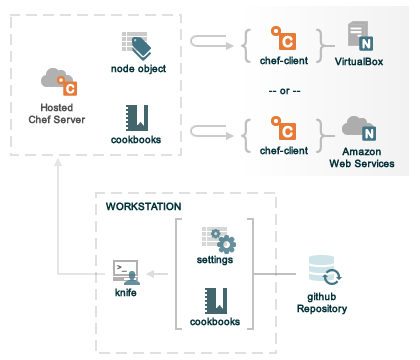
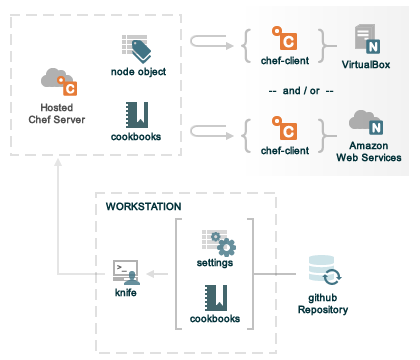
bunches of changes

diff --git a/step_resource/step_resource_registry_key_redirect.rst b/step_resource/step_resource_registry_key_redirect.rst
@@ -1,0 +1,48 @@
+.. This is an included how-to. 
+
+In 64-bit versions of |windows|, ``HKEY_LOCAL_MACHINE\SOFTWARE\Example`` is a re-directed key. In the following examples, because ``HKEY_LOCAL_MACHINE\SOFTWARE\Example`` is a 32-bit key, the output will be "Found 32-bit key" if they are run on a version of |windows| that is 64-bit:
+
+.. code-block:: ruby
+
+   registry_key "HKEY_LOCAL_MACHINE\SOFTWARE\Example" do
+     architecture :i386
+     recursive true
+     action :create
+   end
+
+or: 
+
+.. code-block:: ruby
+
+   registry_key "HKEY_LOCAL_MACHINE\SOFTWARE\Example" do
+     architecture :x86_64
+     recursive true
+     action :delete_key
+   end
+
+or: 
+
+.. code-block:: ruby
+
+   ruby_block "check 32-bit" do
+     block do
+       puts "Found 32-bit key"
+     end
+     only_if { registry_key_exists("HKEY_LOCAL_MACHINE\SOFTWARE\Example", :i386) }
+   end
+
+or: 
+
+.. code-block:: ruby
+
+   ruby_block "check 64-bit" do
+     block do
+       puts "Found 64-bit key"
+     end
+     only_if { registry_key_exists("HKEY_LOCAL_MACHINE\SOFTWARE\Example", :x86_64) }
+   end
+
+
+
+
+

diff --git a/chef_master/source/chef_quick_overview.rst b/chef_master/source/chef_quick_overview.rst
@@ -35,13 +35,11 @@ A Quick Overview of |chef|
 
 .. include:: ../../includes_chef/includes_chef.rst
 
-The following diagram shows the relationships between the various elements of a |chef| organization, including the nodes, the server, and the workstations. These elements work together to provide |chef| the information and instruction that it needs so that it can do its job. As you are reviewing the rest of this doc, use the icons in the tables to refer back to this image.
+The following diagram shows the relationships between the various elements of a very simple |chef| organization, including the |chef hosted| server, a workstations, the |chef| repository, and some simple nodes that exist either in |virtualbox| or |amazon aws|.
 
 .. image:: ../../images/overview_chef_quick.png
 
-.. include:: ../../includes_chef/includes_chef_key_elements.rst
-
-The following sections discuss these elements (and their various components) in more detail.
+The following sections discuss these elements in a bit more detail.
 
 Nodes
 =====================================================

diff --git a/includes_resources/includes_resource_registry_key_attributes.rst b/includes_resources/includes_resource_registry_key_attributes.rst
@@ -10,17 +10,21 @@ This resource has the following has the following attributes:
    * - Attribute
      - Description
    * - ``architecture``
-     - |architecture resource windows_registry|
+     - |architecture resource registry_key|
+
+       |architecture resource registry_key machine|
 
        .. note:: |note registry_key architecture|
    * - ``key``
-     - |key_name resource windows_registry| This attribute defaults to the ``name`` of the resource if not specified.
+     - |key_name resource registry_key| This attribute defaults to the ``name`` of the resource if not specified.
+
+       |key_name resource registry_key hives|
    * - ``recursive``
-     - |recursive resource windows_registry|
+     - |recursive resource registry_key|
 
        .. note:: |note registry_key resource recursive|
    * - ``values``
-     - |values resource windows_registry|
+     - |values resource registry_key|
        
-       |values resource windows_registry types|
+       |values resource registry_key types|
 

diff --git a/includes_resources/includes_resource_registry_key_syntax.rst b/includes_resources/includes_resource_registry_key_syntax.rst
@@ -29,7 +29,7 @@ where
 * ``"name"`` is the path to the registry
 * ``attribute`` is zero (or more) of the attributes that are available for this resource
 * ``values`` is a hash that contains at least one registry key to be created or deleted. Each registry key in the hash is grouped by brackets in which the ``:name``, ``:type``, and ``:data`` values for that registry key are specified.
-* |values resource windows_registry types|
+* |values resource registry_key types|
 * ``:action`` is the step that the resource will ask the provider to take during the |chef| run
 
 The following is an example of how the |resource windows_registry| resource can work when used in a recipe. In this example, a |windows| registry key named "System" will get a new value called "NewRegistryKeyValue" and a mulit-string value named "foo bar":

diff --git a/includes_dsl_recipe/includes_dsl_recipe_method_registry_value_exists.rst b/includes_dsl_recipe/includes_dsl_recipe_method_registry_value_exists.rst
@@ -17,10 +17,10 @@ The syntax for the ``registry_value_exists?`` method is as follows:
 
 where 
 
-* ``KEY_PATH`` is the path to the registry key
+* ``KEY_PATH`` is the path to the registry key. |key_name resource registry_key hives|
 * ``{ :name => "NAME", :type => TYPE, :data => VALUE }`` is a hash that contains the name, type, and value of the registry setting
-* |values resource windows_registry types|
-* ``ARCHITECTURE`` is one of the following values: ``:x86_64``, ``:i386``, or ``:machine``
+* |values resource registry_key types|
+* ``ARCHITECTURE`` is one of the following values: ``:x86_64``, ``:i386``, or ``:machine``. |architecture resource registry_key machine|
 
 This method will return ``true`` or ``false``.  
 

diff --git a/includes_dsl_recipe/includes_dsl_recipe_method_registry_data_exists.rst b/includes_dsl_recipe/includes_dsl_recipe_method_registry_data_exists.rst
@@ -17,10 +17,10 @@ The syntax for the ``registry_data_exists?`` method is as follows:
 
 where 
 
-* ``KEY_PATH`` is the path to the registry key
+* ``KEY_PATH`` is the path to the registry key. |key_name resource registry_key hives|
 * ``{ :name => "NAME", :type => TYPE, :data => VALUE }`` is a hash that contains the name, type, and value of the registry setting
-* |values resource windows_registry types|
-* ``ARCHITECTURE`` is one of the following values: ``:x86_64``, ``:i386``, or ``:machine``
+* |values resource registry_key types|
+* ``ARCHITECTURE`` is one of the following values: ``:x86_64``, ``:i386``, or ``:machine``. |architecture resource registry_key machine|
 
 This method will return ``true`` or ``false``. 
 

diff --git a/includes_resources/includes_resource_registry_key.rst b/includes_resources/includes_resource_registry_key.rst
@@ -2,3 +2,5 @@
 .. This file should not be changed in a way that hinders its ability to appear in multiple documentation sets.
 
 |resource desc windows_registry|
+
+64-bit versions of |windows| have a 32-bit compatibility layer in the registry that reflects and re-directs certain keys (and their sub-keys) into specific locations. By default, the registry functionality in |chef| will default to the machine architecture of the system that is being configured. |chef| can access any reflected or re-directed registry key. |chef| can write to any 64-bit registry location. (This behavior is not affected by |chef| running as a 32-bit application.) For more information, see: |http resource registry_key msdn|.

diff --git a/includes_dsl_recipe/includes_dsl_recipe_method_registry_get_subkeys.rst b/includes_dsl_recipe/includes_dsl_recipe_method_registry_get_subkeys.rst
@@ -13,8 +13,8 @@ The syntax for the ``registry_get_subkeys`` method is as follows:
 
 where 
 
-* ``KEY_PATH`` is the path to the registry key
-* ``ARCHITECTURE`` is one of the following values: ``:x86_64``, ``:i386``, or ``:machine``
+* ``KEY_PATH`` is the path to the registry key. |key_name resource registry_key hives|
+* ``ARCHITECTURE`` is one of the following values: ``:x86_64``, ``:i386``, or ``:machine``. |architecture resource registry_key machine|
 
 The results of ``registry_get_subkeys`` is an array of sub-keys.
 

diff --git a/includes_dsl_recipe/includes_dsl_recipe_method_registry_get_values.rst b/includes_dsl_recipe/includes_dsl_recipe_method_registry_get_values.rst
@@ -13,8 +13,8 @@ The syntax for the ``registry_get_values`` method is as follows:
 
 where 
 
-* ``KEY_PATH`` is the path to the registry key
-* ``ARCHITECTURE`` is one of the following values: ``:x86_64``, ``:i386``, or ``:machine``
+* ``KEY_PATH`` is the path to the registry key. |key_name resource registry_key hives|
+* ``ARCHITECTURE`` is one of the following values: ``:x86_64``, ``:i386``, or ``:machine``. |architecture resource registry_key machine|
 
 The results of ``registry_get_values`` is an array of values.
 

diff --git a/includes_dsl_recipe/includes_dsl_recipe_method_registry_has_subkeys.rst b/includes_dsl_recipe/includes_dsl_recipe_method_registry_has_subkeys.rst
@@ -13,8 +13,8 @@ The syntax for the ``registry_has_subkeys?`` method is as follows:
 
 where 
 
-* ``KEY_PATH`` is the path to the registry key
-* ``ARCHITECTURE`` is one of the following values: ``:x86_64``, ``:i386``, or ``:machine``
+* ``KEY_PATH`` is the path to the registry key. |key_name resource registry_key hives|
+* ``ARCHITECTURE`` is one of the following values: ``:x86_64``, ``:i386``, or ``:machine``. |architecture resource registry_key machine|
 
 This method will return ``true`` or ``false``.
 

diff --git a/includes_dsl_recipe/includes_dsl_recipe_method_registry_key_exists.rst b/includes_dsl_recipe/includes_dsl_recipe_method_registry_key_exists.rst
@@ -13,8 +13,8 @@ The syntax for the ``registry_key_exists?`` method is as follows:
 
 where 
 
-* ``KEY_PATH`` is the path to the registry key
-* ``ARCHITECTURE`` is one of the following values: ``:x86_64``, ``:i386``, or ``:machine``
+* ``KEY_PATH`` is the path to the registry key. |key_name resource registry_key hives|
+* ``ARCHITECTURE`` is one of the following values: ``:x86_64``, ``:i386``, or ``:machine``. |architecture resource registry_key machine|
 
 This method will return ``true`` or ``false``. 
 

diff --git a/chef_master/source/resource_registry_key.rst b/chef_master/source/resource_registry_key.rst
@@ -65,3 +65,7 @@ The following examples show how to use the |resource windows_registry| resource.
 **Delete a registry key and its subkeys, recursively**
 
 .. include:: ../../step_resource/step_resource_registry_key_delete_recursively.rst
+
+**Use re-directed keys**
+
+.. include:: ../../step_resource/step_resource_registry_key_redirect.rst
